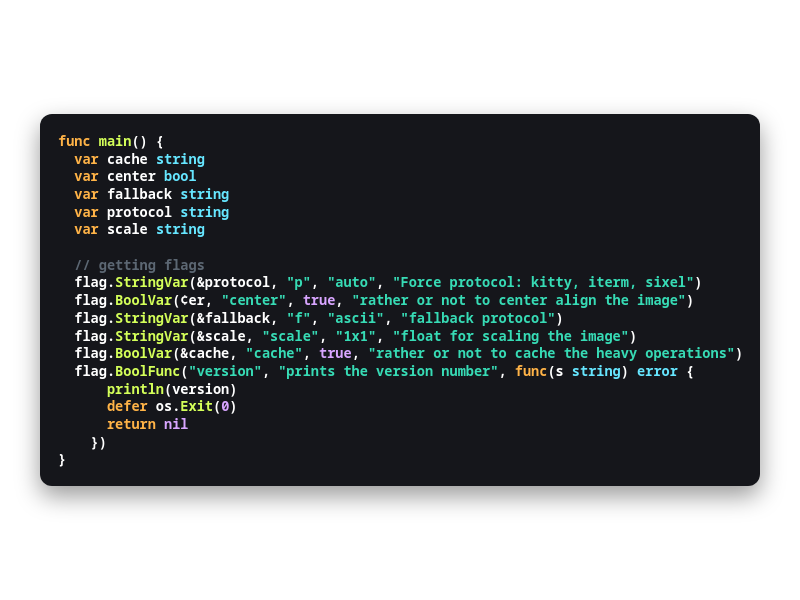
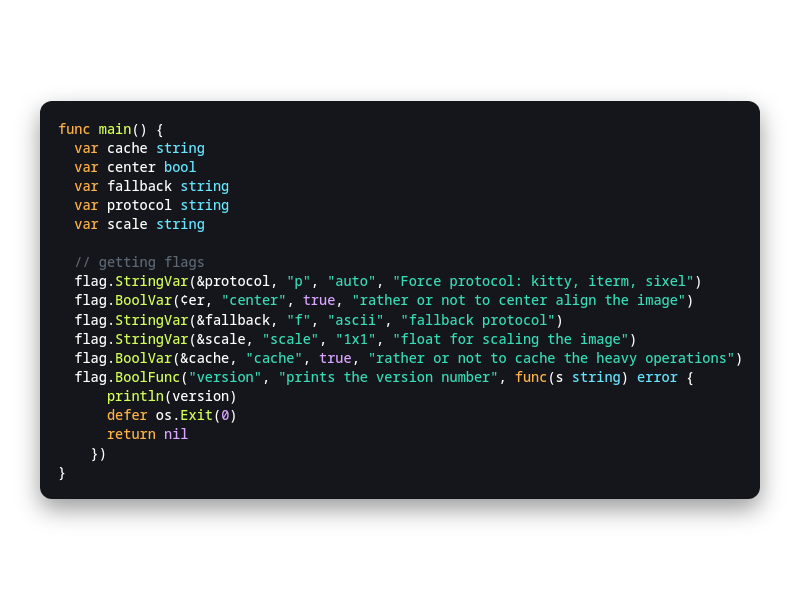
fix: changing the thumbnail font weight to 500

Changed region(s): [[0.0938, 0.42, 0.9375, 0.75], [0.0312, 0.15, 0.9688, 0.39], [0.0312, 0.81, 0.9688, 0.87]]

diff --git a/dogs/dark/code_preview.html b/dogs/dark/code_preview.html
@@ -26,7 +26,7 @@
       background-color: transparent;
       color: var(--fg);
       font-family: 'CaskaydiaCove Nerd Font', monospace;
-      font-weight: 600;
+      font-weight: 500;
       margin: 0;
       padding: min(2vw, 2vh);
       display: flex;
@@ -49,7 +49,7 @@
     pre {
       margin: 0;
       font-size: 1.7vw;
-      line-height: 1.3;
+      line-height: 1.4;
       white-space: pre;
     }
 

diff --git a/dogs/light/code_preview.html b/dogs/light/code_preview.html
@@ -26,7 +26,7 @@
       background-color: transparent;
       color: var(--fg);
       font-family: 'CaskaydiaCove Nerd Font', monospace;
-      font-weight: 600;
+      font-weight: 500;
       margin: 0;
       padding: min(2vw, 2vh);
       display: flex;
@@ -49,7 +49,7 @@
     pre {
       margin: 0;
       font-size: 1.7vw;
-      line-height: 1.3;
+      line-height: 1.4;
       white-space: pre;
     }
 

diff --git a/dogs/spring/code_preview.html b/dogs/spring/code_preview.html
@@ -26,7 +26,7 @@
       background-color: transparent;
       color: var(--fg);
       font-family: 'CaskaydiaCove Nerd Font', monospace;
-      font-weight: 600;
+      font-weight: 500;
       margin: 0;
       padding: min(2vw, 2vh);
       display: flex;
@@ -49,7 +49,7 @@
     pre {
       margin: 0;
       font-size: 1.7vw;
-      line-height: 1.3;
+      line-height: 1.4;
       white-space: pre;
     }
 

diff --git a/dogs/autumn/code_preview.html b/dogs/autumn/code_preview.html
@@ -26,7 +26,7 @@
       background-color: transparent;
       color: var(--fg);
       font-family: 'CaskaydiaCove Nerd Font', monospace;
-      font-weight: 600;
+      font-weight: 500;
       margin: 0;
       padding: min(2vw, 2vh);
       display: flex;
